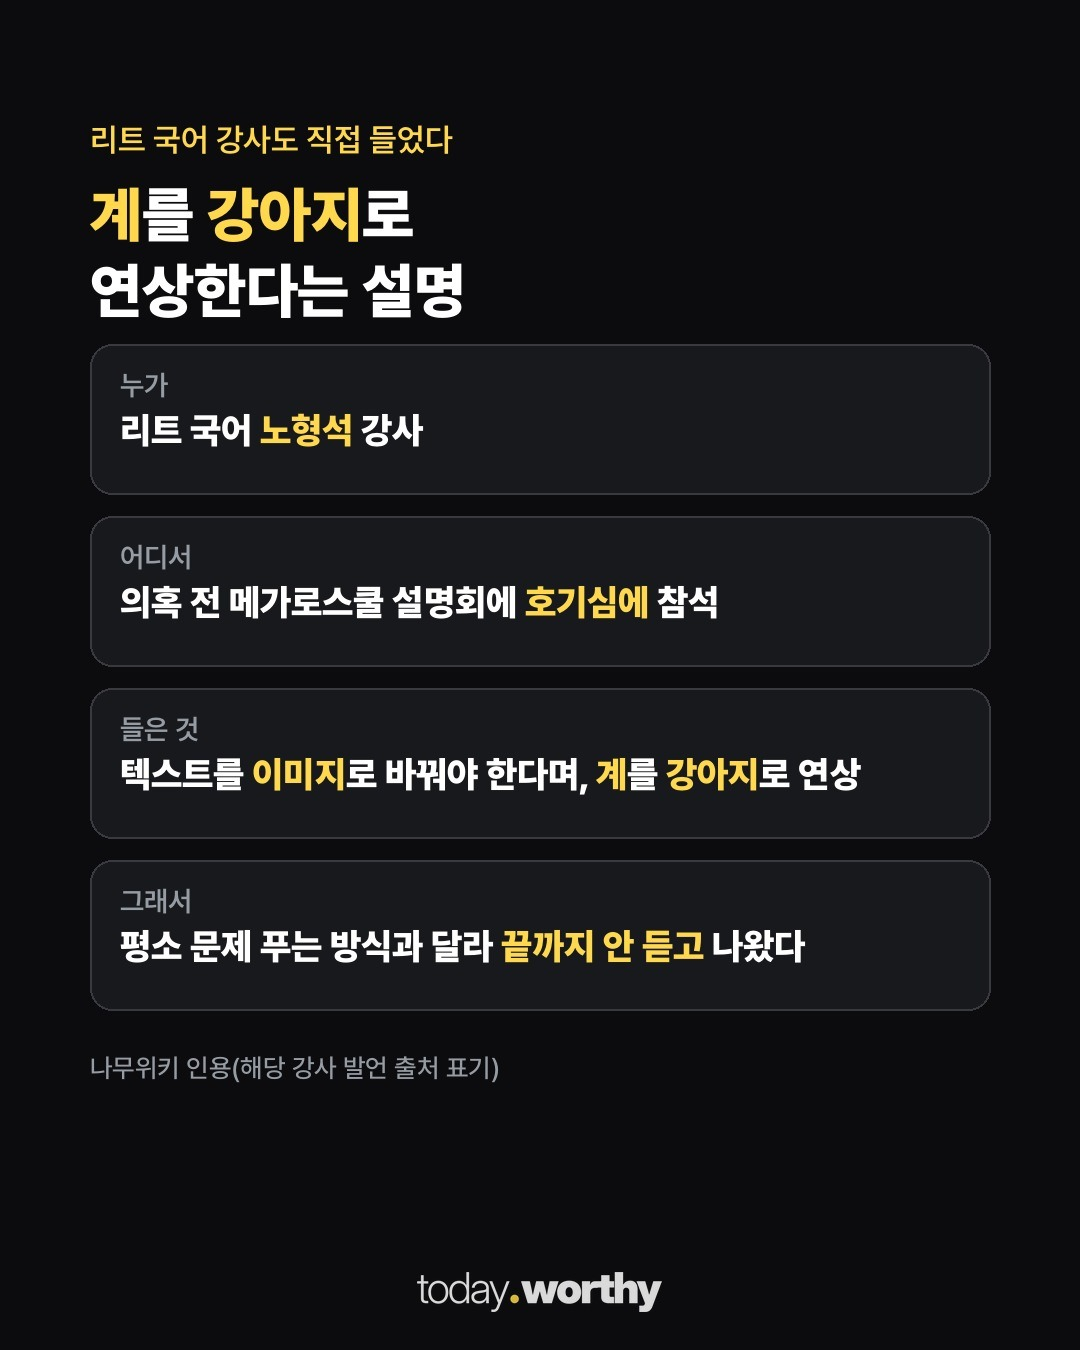
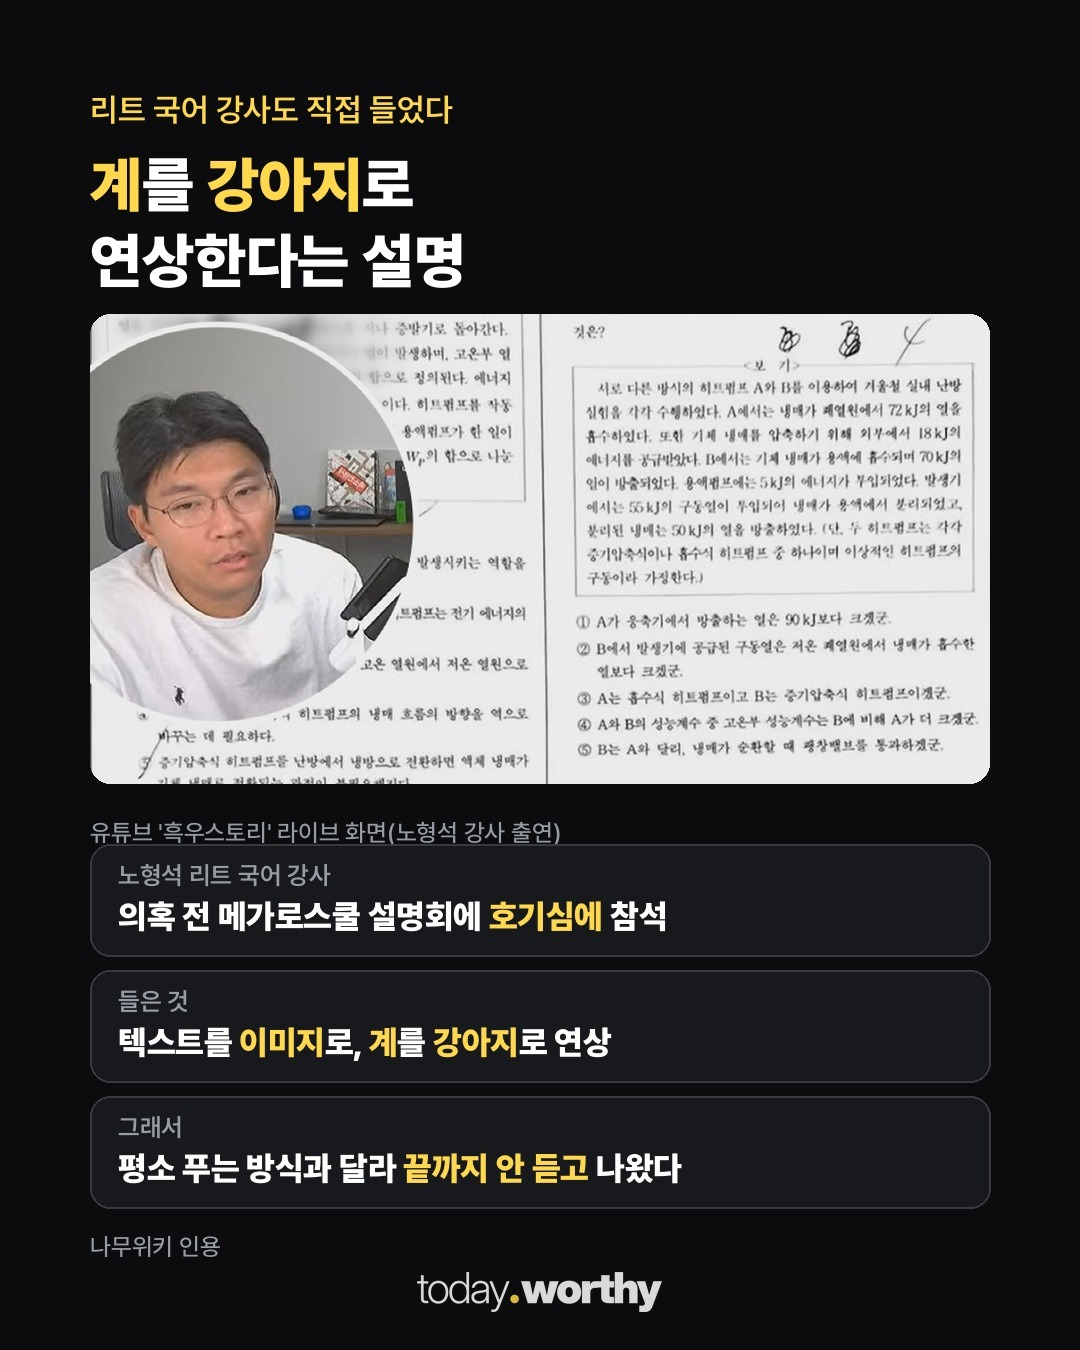
leetlec: 3장에 노형석 강사 유튜브 화면 추가
Claude-Session: https://claude.ai/code/session_01FGsw5QnWxFUsnopcB1Czie

diff --git a/media/20261118-leetlec/build_cards.py b/media/20261118-leetlec/build_cards.py
@@ -13,15 +13,18 @@ subprocess.run([sys.executable, str(R / "scripts/post_cap_card.py"), str(sp)], c
 sys.path.insert(0, str(R / "scripts"))
 from xpost_cards import P, BOX, LN, MU, FG, F, rich, base, logo, head, wrap
 from PIL import ImageDraw
-im = base(); d = ImageDraw.Draw(im); y = head(d, "리트 국어 강사도 직접 들었다", "'계'를 '강아지'로\n연상한다는 설명", y=120)
-rows = [("누가", "리트 국어 '노형석' 강사"), ("어디서", "의혹 전 메가로스쿨 설명회에 '호기심에' 참석"), ("들은 것", "텍스트를 '이미지'로 바꿔야 한다며, '계'를 '강아지'로 연상"),
-        ("그래서", "평소 문제 푸는 방식과 달라 '끝까지 안 듣고' 나왔다")]
+im = base(); d = ImageDraw.Draw(im); y = head(d, "리트 국어 강사도 직접 들었다", "'계'를 '강아지'로\n연상한다는 설명", y=90)
+# 사용자: 노형석 강사 유튜브 화면 넣기 — 유튜브 '흑우스토리' 라이브(노형석 강사 출연, 리트 시험지 분석) 화면, 네이트 뉴스 기사 사진
+ph = ImageOps.fit(Image.open(O / "nohs.jpg").convert("RGB"), (W - 2 * P, 470), Image.LANCZOS, centering=(.5, .5))
+m = Image.new("L", ph.size, 0); ImageDraw.Draw(m).rounded_rectangle((0, 0, ph.width - 1, ph.height - 1), 20, fill=255); im.paste(ph, (P, y), m)
+d.text((P, y + 470 + 34), "유튜브 '흑우스토리' 라이브 화면(노형석 강사 출연)", font=F("Medium", 24), fill=MU); y += 470 + 60
+rows = [("노형석 리트 국어 강사", "의혹 전 메가로스쿨 설명회에 '호기심에' 참석"), ("들은 것", "텍스트를 '이미지'로, '계'를 '강아지'로 연상"),
+        ("그래서", "평소 푸는 방식과 달라 '끝까지 안 듣고' 나왔다")]
 for lab, txt in rows:
-    d.rounded_rectangle((P, y, W - P, y + 150), 22, fill=BOX, outline=LN, width=2)
-    d.text((P + 30, y + 24), lab, font=F("SemiBold", 28), fill=MU)
-    for k, ln in enumerate(wrap(d, txt, F("Black", 36), W - 2 * P - 60)[:2]): rich(d, P + 30, y + 64 + k * 44, ln, F("Black", 36))
-    y += 172
-d.text((P, y + 20), "나무위키 인용(해당 강사 발언 출처 표기)", font=F("Medium", 26), fill=MU)
+    d.rounded_rectangle((P, y, W - P, y + 112), 20, fill=BOX, outline=LN, width=2)
+    d.text((P + 28, y + 16), lab, font=F("SemiBold", 25), fill=MU); rich(d, P + 28, y + 52, txt, F("Black", 33))
+    y += 126
+d.text((P, y + 10), "나무위키 인용", font=F("Medium", 24), fill=MU)
 logo(im); im.save(O / "c03.jpg", quality=93)
 from PIL import ImageFilter
 # 표지(사용자: '강연하는 느낌'): 손짓하며 설명하는 보도사진(네이트 뉴스 기사 사진)
